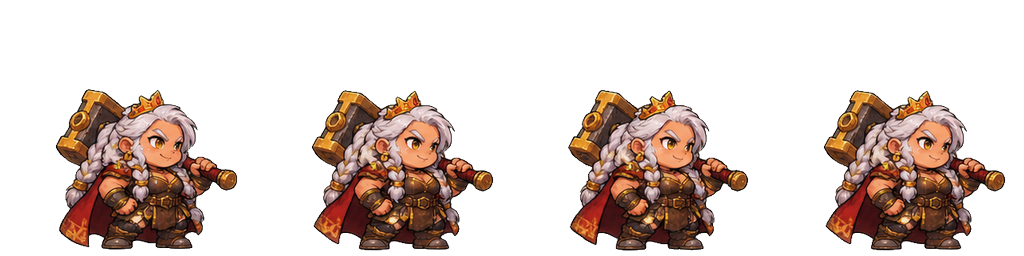
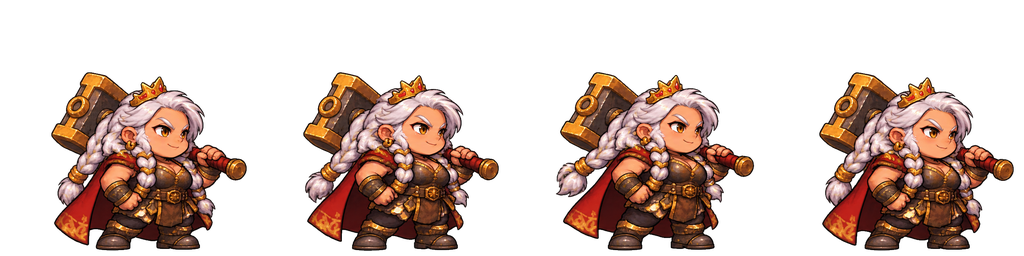
브리다 대기 동작 4프레임 새 그림으로 교체
Claude-Session: https://claude.ai/code/session_011AypWsTwCXy5ahmKUPDYwt

diff --git a/sw.js b/sw.js
@@ -1,6 +1,6 @@
 /* 왕이 되는 그날까지 — 오프라인 실행용 서비스 워커 (tools/build_sw.py가 만듦, 직접 고치지 말 것) */
-const VERSION='c6160e2bca';
-const MAP={"assets/bg/ash_far.png":"abfdc7ad7e","assets/bg/ash_ground.png":"fbd17f65c8","assets/bg/ash_mid.png":"bf807812ec","assets/bg/ash_sky.png":"300201d8a2","assets/bg/canyon_far.png":"a9cc422fed","assets/bg/canyon_ground.png":"d5f682c619","assets/bg/canyon_mid.png":"e5e4324591","assets/bg/canyon_sky.png":"9c202a64b5","assets/bg/dusk_far.png":"f566503025","assets/bg/dusk_ground.png":"d4760254fd","assets/bg/dusk_mid.png":"e0989d31a1","assets/bg/dusk_sky.png":"c82f7b61d3","assets/bg/erdan_far.png":"d094fc7ce5","assets/bg/erdan_ground.png":"d3529606e8","assets/bg/erdan_mid.png":"c8ad3804c1","assets/bg/erdan_sky.png":"1e05f8731e","assets/bg/frost_far.png":"19dad2ce88","assets/bg/frost_ground.png":"3b9d5fb014","assets/bg/frost_mid.png":"69a80fb601","assets/bg/frost_sky.png":"955f847347","assets/characters/brida_attack.png":"8a08e6bed8","assets/characters/brida_hit.png":"917e69900f","assets/characters/brida_idle.png":"837764e801","assets/characters/brida_walk.png":"35456db495","assets/characters/bron_attack.png":"3a0e0caf42","assets/characters/bron_hit.png":"84a7154e77","assets/characters/bron_idle.png":"61229dcc5b","assets/characters/bron_walk.png":"7dad3ba0f2","assets/characters/daisy_attack.png":"4b7c1426b9","assets/characters/daisy_hit.png":"8f1a0878af","assets/characters/daisy_idle.png":"61377c6830","assets/characters/daisy_walk.png":"d5f2435e50","assets/characters/haral_attack.png":"978f3afc3f","assets/characters/haral_hit.png":"213362f649","assets/characters/haral_idle.png":"8bf0bf6d20","assets/characters/haral_walk.png":"39e8f29d2f","assets/characters/kael_attack.png":"dbd47d1705","assets/characters/kael_hit.png":"b0fbed0ea5","assets/characters/kael_idle.png":"29cdfa8cdc","assets/characters/kael_walk.png":"884487f656","assets/characters/luka_attack.png":"10b694870b","assets/characters/luka_hit.png":"00d56f7f82","assets/characters/luka_idle.png":"0c7c261f4e","assets/characters/luka_walk.png":"ffde5d0b12","assets/characters/margo_attack.png":"5801b486be","assets/characters/margo_hit.png":"1340b2a211","assets/characters/margo_idle.png":"d44c7fa00a","assets/characters/margo_walk.png":"86be37ce75","assets/characters/nella_attack.png":"c56d9ca13c","assets/characters/nella_hit.png":"4b975ad670","assets/characters/nella_idle.png":"c666efcc20","assets/characters/nella_walk.png":"e4712b243c","assets/characters/riel_attack.png":"08dc86ec82","assets/characters/riel_hit.png":"22eb8eaca6","assets/characters/riel_idle.png":"3cf3652c06","assets/characters/riel_walk.png":"d429ca1f71","assets/crops/crop_carrot_1.png":"f521f1b21a","assets/crops/crop_carrot_2.png":"96412cae61","assets/crops/crop_carrot_3.png":"0caab08be8","assets/crops/crop_carrot_4.png":"631ee0ae4c","assets/crops/crop_pumpkin_1.png":"17da246fd2","assets/crops/crop_pumpkin_2.png":"4bd771eea2","assets/crops/crop_pumpkin_3.png":"b0e0de0917","assets/crops/crop_pumpkin_4.png":"4199c151ff","assets/crops/crop_wheat_1.png":"b2c4cba4cd","assets/crops/crop_wheat_2.png":"9f43ac98c5","assets/crops/crop_wheat_3.png":"1980c09851","assets/crops/crop_wheat_4.png":"96d9a3ad42","assets/crops/plot_empty.png":"bf40b6ed45","assets/fonts/hahmlet-500.woff2":"2e21f9e04c","assets/fonts/hahmlet-700.woff2":"cff1c42d55","assets/fonts/plexkr-400.woff2":"2185fb2e58","assets/fonts/plexkr-600.woff2":"760cba76f5","assets/fx/fx_bees.png":"a77e742ff9","assets/fx/fx_coin.png":"83d65bf09a","assets/fx/fx_crit.png":"08659b9d49","assets/fx/fx_harpoon.png":"84a4e2831d","assets/fx/fx_heal.png":"9ceeb9de2e","assets/fx/fx_hit.png":"b9b3abbcaf","assets/fx/fx_skill_brida.png":"55e34584e8","assets/fx/fx_skill_bron.png":"ecbc795a27","assets/fx/fx_skill_daisy.png":"4f3bb837b2","assets/fx/fx_skill_haral.png":"5e1499b5c7","assets/fx/fx_skill_kael.png":"81aabe4d33","assets/fx/fx_skill_luka.png":"85cac3f606","assets/fx/fx_skill_margo.png":"ac0d3edc16","assets/fx/fx_skill_nella.png":"e508630a6f","assets/fx/fx_skill_riel.png":"47270c84f8","assets/fx/fx_soup.png":"4b941315f8","assets/gem/gem_pack_1.png":"fbaa0f6542","assets/gem/gem_pack_2.png":"89bccb5745","assets/gem/gem_pack_3.png":"5b0c3058fd","assets/gem/gem_pack_4.png":"4b01620dbd","assets/gem/gem_pack_5.png":"3d29e897fe","assets/gem/gem_pack_6.png":"5164494272","assets/gem/ui_gem.png":"d72701ba7d","assets/icon/apple-touch-icon.png":"e50c9e6bf1","assets/icon/favicon-16.png":"2db4311b5d","assets/icon/favicon-32.png":"440db49613","assets/icon/icon-192.png":"441e2997bd","assets/icon/icon-512.png":"eda2be997b","assets/illust/illust_prologue.jpg":"9beba365b5","assets/illust/illust_retire.jpg":"74ff311a7f","assets/illust/illust_title.jpg":"006adb3633","assets/map/ash_boss.png":"a8be9e52dc","assets/map/ash_enemy.png":"d2262367aa","assets/map/canyon_boss.png":"6b7c17a49c","assets/map/canyon_enemy.png":"e2d7d4ebcd","assets/map/capital_locked.png":"c828d1f67a","assets/map/capital_open.png":"cee360a677","assets/map/dusk_boss.png":"dbf6d0b566","assets/map/dusk_enemy.png":"543dbb2608","assets/map/erdan_boss.png":"63719713d5","assets/map/erdan_enemy.png":"b3c3a8a4e9","assets/map/frost_boss.png":"6ec913cade","assets/map/frost_enemy.png":"87e0ecc588","assets/monsters/bat_shadow_attack.png":"733f900992","assets/monsters/bat_shadow_hit.png":"6c6777143a","assets/monsters/bat_shadow_walk.png":"4bdf69f59e","assets/monsters/boss_aldor_attack.png":"98d147de33","assets/monsters/boss_aldor_hit.png":"8ef2631028","assets/monsters/boss_aldor_walk.png":"dc30c29780","assets/monsters/boss_gromak_attack.png":"79580dc79a","assets/monsters/boss_gromak_hit.png":"8afa36ddae","assets/monsters/boss_gromak_walk.png":"508e49c3f2","assets/monsters/boss_ignis_attack.png":"b3792ddac0","assets/monsters/boss_ignis_hit.png":"39874ec8ec","assets/monsters/boss_ignis_walk.png":"745f03cf3c","assets/monsters/boss_morbas_attack.png":"b90b8b6dbd","assets/monsters/boss_morbas_hit.png":"b2e28fd059","assets/monsters/boss_morbas_walk.png":"c14aa48d24","assets/monsters/boss_seril_attack.png":"87c378c111","assets/monsters/boss_seril_hit.png":"8ee606e7e9","assets/monsters/boss_seril_walk.png":"630659de62","assets/monsters/goblin_gold_attack.png":"64a6f6f451","assets/monsters/goblin_gold_hit.png":"8b27eac950","assets/monsters/goblin_gold_walk.png":"c8a6e5c138","assets/monsters/goblin_pick_attack.png":"fa8e5c883f","assets/monsters/goblin_pick_hit.png":"066af0e709","assets/monsters/goblin_pick_walk.png":"e1f6d5d36a","assets/monsters/golem_steel_attack.png":"07e873d945","assets/monsters/golem_steel_hit.png":"67115529dc","assets/monsters/golem_steel_walk.png":"af9989172a","assets/monsters/imp_flame_attack.png":"9855e4f5e3","assets/monsters/imp_flame_hit.png":"ac4e28b83a","assets/monsters/imp_flame_walk.png":"6a0a835904","assets/monsters/scarecrow_cursed_attack.png":"19c1676923","assets/monsters/scarecrow_cursed_hit.png":"07f43ba22a","assets/monsters/scarecrow_cursed_walk.png":"0b7170d79c","assets/monsters/skeleton_frost_attack.png":"07648d88b9","assets/monsters/skeleton_frost_hit.png":"fcc108c10e","assets/monsters/skeleton_frost_walk.png":"74294ba7e2","assets/monsters/slime_ash_attack.png":"031d213acf","assets/monsters/slime_ash_hit.png":"ce2fa4d31b","assets/monsters/slime_ash_walk.png":"03ae7c49a4","assets/monsters/slime_plague_attack.png":"d4f6075abb","assets/monsters/slime_plague_hit.png":"bb74341a7e","assets/monsters/slime_plague_walk.png":"151b47bf12","assets/monsters/wolf_shadow_attack.png":"a6a83b34b8","assets/monsters/wolf_shadow_hit.png":"82a1af6e1d","assets/monsters/wolf_shadow_walk.png":"1251356e09","assets/monsters/wraith_frost_attack.png":"f5f41001fb","assets/monsters/wraith_frost_hit.png":"6348e92571","assets/monsters/wraith_frost_walk.png":"131c82c5ac","assets/portraits/portrait_aldor_idle.png":"07633d6214","assets/portraits/portrait_brida_idle.png":"cdf6882dec","assets/portraits/portrait_brida_laugh.png":"cde04938db","assets/portraits/portrait_bron_idle.png":"eb202419e5","assets/portraits/portrait_bron_laugh.png":"067dda71a1","assets/portraits/portrait_daisy_idle.png":"8b95fff77a","assets/portraits/portrait_daisy_laugh.png":"38c0f6471b","assets/portraits/portrait_gromak_idle.png":"b4510b3437","assets/portraits/portrait_haral_idle.png":"8057bc4036","assets/portraits/portrait_haral_laugh.png":"c213936ee8","assets/portraits/portrait_ignis_idle.png":"6bb8479476","assets/portraits/portrait_kael_flustered.png":"dcbbe42cd0","assets/portraits/portrait_kael_idle.png":"2faad1bb9c","assets/portraits/portrait_kael_smile.png":"880d0b870c","assets/portraits/portrait_kael_surprised.png":"f49dfef839","assets/portraits/portrait_luka_idle.png":"ef693f34ba","assets/portraits/portrait_luka_laugh.png":"aafc2ba36c","assets/portraits/portrait_luminar_angry.png":"406fff108e","assets/portraits/portrait_luminar_moved.png":"ac97db5b14","assets/portraits/portrait_luminar_proud.png":"5a078f2d6f","assets/portraits/portrait_margo_idle.png":"a390d73c66","assets/portraits/portrait_margo_laugh.png":"6a6d2380f8","assets/portraits/portrait_marta_idle.png":"d86a9956f4","assets/portraits/portrait_morbas_idle.png":"1ed03a2888","assets/portraits/portrait_nella_idle.png":"b11813c857","assets/portraits/portrait_nella_laugh.png":"05ff86fd98","assets/portraits/portrait_pete_idle.png":"d14833cc91","assets/portraits/portrait_riel_idle.png":"31ca54792c","assets/portraits/portrait_riel_laugh.png":"40f5ce426b","assets/portraits/portrait_seril_idle.png":"52fb8d0eb1","assets/portraits/portrait_toby_idle.png":"ea6aef3ceb","assets/profile/badge_basket.png":"19ad639d98","assets/profile/badge_chest.png":"1997070288","assets/profile/badge_goblin.png":"a97a7db198","assets/profile/badge_horns.png":"eb77cb7f93","assets/profile/badge_king.png":"87c7d121ac","assets/profile/badge_pumpkin.png":"e191405060","assets/profile/badge_rebuild.png":"100b0d8092","assets/profile/badge_retire.png":"68a96ee52e","assets/profile/badge_stew.png":"c5615ba22c","assets/profile/frame_amethyst.png":"33596ec882","assets/profile/frame_goblin.png":"206ee5a860","assets/profile/frame_gold.png":"ac627fc7a3","assets/profile/frame_harvest.png":"1b0b11ae0b","assets/profile/frame_holy.png":"1af08de6e7","assets/profile/frame_royal.png":"e21f45a33a","assets/profile/frame_silver.png":"1db41ebcfa","assets/profile/frame_straw.png":"0810bf19b1","assets/profile/frame_wood.png":"99f33b8a46","assets/relic/relic_armor_1.png":"16d76a13c5","assets/relic/relic_armor_2.png":"87fb210070","assets/relic/relic_armor_3.png":"dd11fe2783","assets/relic/relic_boots_1.png":"d9a8c049ac","assets/relic/relic_boots_2.png":"efd27637b0","assets/relic/relic_boots_3.png":"5a612f2e27","assets/relic/relic_gloves_1.png":"5e8bee64d0","assets/relic/relic_gloves_2.png":"6795c922c5","assets/relic/relic_gloves_3.png":"67e14c6405","assets/relic/relic_helm_1.png":"455c59b819","assets/relic/relic_helm_2.png":"d18874e0e3","assets/relic/relic_helm_3.png":"cf800e2dad","assets/relic/relic_ring_1.png":"10edfdff76","assets/relic/relic_ring_2.png":"78a2cc0f51","assets/relic/relic_ring_3.png":"b2278ff8ee","assets/relic/relic_weapon_1.png":"dcc7c7540a","assets/relic/relic_weapon_2.png":"5fdd6cc2b3","assets/relic/relic_weapon_3.png":"f0135343bd","assets/skills/skill_brida.png":"0aa718bf0d","assets/skills/skill_bron.png":"08c7b35e76","assets/skills/skill_daisy.png":"8ee38fd0b9","assets/skills/skill_haral.png":"d392acbc14","assets/skills/skill_kael.png":"85c628e6a9","assets/skills/skill_luka.png":"ed4206fe68","assets/skills/skill_margo.png":"1498522d74","assets/skills/skill_nella.png":"04dc833078","assets/skills/skill_riel.png":"7aca6249d7","assets/ui/banner_capture.png":"cdce0b7ac7","assets/ui/bld_apiary.png":"1c86733003","assets/ui/bld_diner.png":"386a2fd60f","assets/ui/bld_dock.png":"f0409530e4","assets/ui/bld_farm.png":"ba8a24d8a9","assets/ui/bld_inn.png":"6857ad2ff5","assets/ui/bld_mine.png":"db914dbca5","assets/ui/boss_aura_commander.png":"3f9d291d94","assets/ui/boss_aura_lord.png":"785308d542","assets/ui/boss_mark_commander.png":"77e1e1b4bb","assets/ui/boss_mark_lord.png":"123c1b4432","assets/ui/buff_atk.png":"9a886d1ff6","assets/ui/buff_gold.png":"1a7ca0cf7c","assets/ui/buff_spd.png":"dae9c3f56c","assets/ui/frame_dialog.png":"1d1d83a399","assets/ui/frame_epic.png":"69a0cfc775","assets/ui/frame_legendary.png":"9a8f6852ac","assets/ui/frame_mythic.png":"83201ca46e","assets/ui/frame_normal.png":"01b42af2db","assets/ui/frame_popup.png":"20dc37c6ff","assets/ui/frame_rare.png":"6e60a9625d","assets/ui/frame_uncommon.png":"c1f9ee4e31","assets/ui/item_carrot.png":"9d51a5ea72","assets/ui/item_fish.png":"2f62e8797b","assets/ui/item_honey.png":"fbdf3d5e01","assets/ui/item_ore.png":"6eb3cdcb49","assets/ui/item_pumpkin.png":"074c67fcb2","assets/ui/item_wheat.png":"69fac25d82","assets/ui/logo.png":"2d22e7ca80","assets/ui/node_boss.png":"c79760401f","assets/ui/node_captured.png":"0a83211c2b","assets/ui/node_current.png":"c4a3ba8982","assets/ui/node_enemy.png":"55c59af8ea","assets/ui/rank_count.png":"f0e9a8bd8c","assets/ui/rank_duke.png":"80cb0fc6fa","assets/ui/rank_farmer.png":"493f3b96e1","assets/ui/rank_guard.png":"8a70f1c39c","assets/ui/rank_king.png":"a34e27d982","assets/ui/rank_knight.png":"78adabb17a","assets/ui/rank_lord.png":"77bb49441a","assets/ui/relic_chest.png":"9311479aa1","assets/ui/seed_carrot.png":"f21317e672","assets/ui/seed_pumpkin.png":"de9e24a972","assets/ui/seed_wheat.png":"bc87c11aee","assets/ui/slot_armor.png":"83816d046b","assets/ui/slot_boots.png":"01c1c89cdb","assets/ui/slot_gloves.png":"483d5aba63","assets/ui/slot_hat.png":"45c39d6e0c","assets/ui/slot_ring.png":"3707240c55","assets/ui/slot_weapon.png":"d76a948b02","assets/ui/tab_equipment.png":"cebacb923b","assets/ui/tab_map.png":"5178bc1d54","assets/ui/tab_party.png":"80412a0e78","assets/ui/tab_training.png":"f090ee0719","assets/ui/tab_village.png":"87cabcf9cb","assets/ui/ui_boss_mark.png":"8fe434b274","assets/ui/ui_gold.png":"12070643fb","assets/village/apiary_built.png":"001bb8753d","assets/village/apiary_ruin.png":"42a1170bd6","assets/village/diner_built.png":"50f46b5946","assets/village/diner_ruin.png":"e09f4a687d","assets/village/dock_built.png":"10894845e0","assets/village/dock_ruin.png":"975d3eea4f","assets/village/farm_built.png":"2331d98d5b","assets/village/farm_ruin.png":"6f4bde33f4","assets/village/inn_built.png":"75f5599f0b","assets/village/inn_ruin.png":"31dfd01982","assets/village/mine_built.png":"85b66e411e","assets/village/mine_ruin.png":"b773da1822","assets/village/village_bg.jpg":"d7046fd11a","favicon.ico":"48e226949a","manifest.webmanifest":"cba9531993"};
+const VERSION='3609a2be07';
+const MAP={"assets/bg/ash_far.png":"abfdc7ad7e","assets/bg/ash_ground.png":"fbd17f65c8","assets/bg/ash_mid.png":"bf807812ec","assets/bg/ash_sky.png":"300201d8a2","assets/bg/canyon_far.png":"a9cc422fed","assets/bg/canyon_ground.png":"d5f682c619","assets/bg/canyon_mid.png":"e5e4324591","assets/bg/canyon_sky.png":"9c202a64b5","assets/bg/dusk_far.png":"f566503025","assets/bg/dusk_ground.png":"d4760254fd","assets/bg/dusk_mid.png":"e0989d31a1","assets/bg/dusk_sky.png":"c82f7b61d3","assets/bg/erdan_far.png":"d094fc7ce5","assets/bg/erdan_ground.png":"d3529606e8","assets/bg/erdan_mid.png":"c8ad3804c1","assets/bg/erdan_sky.png":"1e05f8731e","assets/bg/frost_far.png":"19dad2ce88","assets/bg/frost_ground.png":"3b9d5fb014","assets/bg/frost_mid.png":"69a80fb601","assets/bg/frost_sky.png":"955f847347","assets/characters/brida_attack.png":"8a08e6bed8","assets/characters/brida_hit.png":"917e69900f","assets/characters/brida_idle.png":"9d37c07a5e","assets/characters/brida_walk.png":"35456db495","assets/characters/bron_attack.png":"3a0e0caf42","assets/characters/bron_hit.png":"84a7154e77","assets/characters/bron_idle.png":"61229dcc5b","assets/characters/bron_walk.png":"7dad3ba0f2","assets/characters/daisy_attack.png":"4b7c1426b9","assets/characters/daisy_hit.png":"8f1a0878af","assets/characters/daisy_idle.png":"61377c6830","assets/characters/daisy_walk.png":"d5f2435e50","assets/characters/haral_attack.png":"978f3afc3f","assets/characters/haral_hit.png":"213362f649","assets/characters/haral_idle.png":"8bf0bf6d20","assets/characters/haral_walk.png":"39e8f29d2f","assets/characters/kael_attack.png":"dbd47d1705","assets/characters/kael_hit.png":"b0fbed0ea5","assets/characters/kael_idle.png":"29cdfa8cdc","assets/characters/kael_walk.png":"884487f656","assets/characters/luka_attack.png":"10b694870b","assets/characters/luka_hit.png":"00d56f7f82","assets/characters/luka_idle.png":"0c7c261f4e","assets/characters/luka_walk.png":"ffde5d0b12","assets/characters/margo_attack.png":"5801b486be","assets/characters/margo_hit.png":"1340b2a211","assets/characters/margo_idle.png":"d44c7fa00a","assets/characters/margo_walk.png":"86be37ce75","assets/characters/nella_attack.png":"c56d9ca13c","assets/characters/nella_hit.png":"4b975ad670","assets/characters/nella_idle.png":"c666efcc20","assets/characters/nella_walk.png":"e4712b243c","assets/characters/riel_attack.png":"08dc86ec82","assets/characters/riel_hit.png":"22eb8eaca6","assets/characters/riel_idle.png":"3cf3652c06","assets/characters/riel_walk.png":"d429ca1f71","assets/crops/crop_carrot_1.png":"f521f1b21a","assets/crops/crop_carrot_2.png":"96412cae61","assets/crops/crop_carrot_3.png":"0caab08be8","assets/crops/crop_carrot_4.png":"631ee0ae4c","assets/crops/crop_pumpkin_1.png":"17da246fd2","assets/crops/crop_pumpkin_2.png":"4bd771eea2","assets/crops/crop_pumpkin_3.png":"b0e0de0917","assets/crops/crop_pumpkin_4.png":"4199c151ff","assets/crops/crop_wheat_1.png":"b2c4cba4cd","assets/crops/crop_wheat_2.png":"9f43ac98c5","assets/crops/crop_wheat_3.png":"1980c09851","assets/crops/crop_wheat_4.png":"96d9a3ad42","assets/crops/plot_empty.png":"bf40b6ed45","assets/fonts/hahmlet-500.woff2":"2e21f9e04c","assets/fonts/hahmlet-700.woff2":"cff1c42d55","assets/fonts/plexkr-400.woff2":"2185fb2e58","assets/fonts/plexkr-600.woff2":"760cba76f5","assets/fx/fx_bees.png":"a77e742ff9","assets/fx/fx_coin.png":"83d65bf09a","assets/fx/fx_crit.png":"08659b9d49","assets/fx/fx_harpoon.png":"84a4e2831d","assets/fx/fx_heal.png":"9ceeb9de2e","assets/fx/fx_hit.png":"b9b3abbcaf","assets/fx/fx_skill_brida.png":"55e34584e8","assets/fx/fx_skill_bron.png":"ecbc795a27","assets/fx/fx_skill_daisy.png":"4f3bb837b2","assets/fx/fx_skill_haral.png":"5e1499b5c7","assets/fx/fx_skill_kael.png":"81aabe4d33","assets/fx/fx_skill_luka.png":"85cac3f606","assets/fx/fx_skill_margo.png":"ac0d3edc16","assets/fx/fx_skill_nella.png":"e508630a6f","assets/fx/fx_skill_riel.png":"47270c84f8","assets/fx/fx_soup.png":"4b941315f8","assets/gem/gem_pack_1.png":"fbaa0f6542","assets/gem/gem_pack_2.png":"89bccb5745","assets/gem/gem_pack_3.png":"5b0c3058fd","assets/gem/gem_pack_4.png":"4b01620dbd","assets/gem/gem_pack_5.png":"3d29e897fe","assets/gem/gem_pack_6.png":"5164494272","assets/gem/ui_gem.png":"d72701ba7d","assets/icon/apple-touch-icon.png":"e50c9e6bf1","assets/icon/favicon-16.png":"2db4311b5d","assets/icon/favicon-32.png":"440db49613","assets/icon/icon-192.png":"441e2997bd","assets/icon/icon-512.png":"eda2be997b","assets/illust/illust_prologue.jpg":"9beba365b5","assets/illust/illust_retire.jpg":"74ff311a7f","assets/illust/illust_title.jpg":"006adb3633","assets/map/ash_boss.png":"a8be9e52dc","assets/map/ash_enemy.png":"d2262367aa","assets/map/canyon_boss.png":"6b7c17a49c","assets/map/canyon_enemy.png":"e2d7d4ebcd","assets/map/capital_locked.png":"c828d1f67a","assets/map/capital_open.png":"cee360a677","assets/map/dusk_boss.png":"dbf6d0b566","assets/map/dusk_enemy.png":"543dbb2608","assets/map/erdan_boss.png":"63719713d5","assets/map/erdan_enemy.png":"b3c3a8a4e9","assets/map/frost_boss.png":"6ec913cade","assets/map/frost_enemy.png":"87e0ecc588","assets/monsters/bat_shadow_attack.png":"733f900992","assets/monsters/bat_shadow_hit.png":"6c6777143a","assets/monsters/bat_shadow_walk.png":"4bdf69f59e","assets/monsters/boss_aldor_attack.png":"98d147de33","assets/monsters/boss_aldor_hit.png":"8ef2631028","assets/monsters/boss_aldor_walk.png":"dc30c29780","assets/monsters/boss_gromak_attack.png":"79580dc79a","assets/monsters/boss_gromak_hit.png":"8afa36ddae","assets/monsters/boss_gromak_walk.png":"508e49c3f2","assets/monsters/boss_ignis_attack.png":"b3792ddac0","assets/monsters/boss_ignis_hit.png":"39874ec8ec","assets/monsters/boss_ignis_walk.png":"745f03cf3c","assets/monsters/boss_morbas_attack.png":"b90b8b6dbd","assets/monsters/boss_morbas_hit.png":"b2e28fd059","assets/monsters/boss_morbas_walk.png":"c14aa48d24","assets/monsters/boss_seril_attack.png":"87c378c111","assets/monsters/boss_seril_hit.png":"8ee606e7e9","assets/monsters/boss_seril_walk.png":"630659de62","assets/monsters/goblin_gold_attack.png":"64a6f6f451","assets/monsters/goblin_gold_hit.png":"8b27eac950","assets/monsters/goblin_gold_walk.png":"c8a6e5c138","assets/monsters/goblin_pick_attack.png":"fa8e5c883f","assets/monsters/goblin_pick_hit.png":"066af0e709","assets/monsters/goblin_pick_walk.png":"e1f6d5d36a","assets/monsters/golem_steel_attack.png":"07e873d945","assets/monsters/golem_steel_hit.png":"67115529dc","assets/monsters/golem_steel_walk.png":"af9989172a","assets/monsters/imp_flame_attack.png":"9855e4f5e3","assets/monsters/imp_flame_hit.png":"ac4e28b83a","assets/monsters/imp_flame_walk.png":"6a0a835904","assets/monsters/scarecrow_cursed_attack.png":"19c1676923","assets/monsters/scarecrow_cursed_hit.png":"07f43ba22a","assets/monsters/scarecrow_cursed_walk.png":"0b7170d79c","assets/monsters/skeleton_frost_attack.png":"07648d88b9","assets/monsters/skeleton_frost_hit.png":"fcc108c10e","assets/monsters/skeleton_frost_walk.png":"74294ba7e2","assets/monsters/slime_ash_attack.png":"031d213acf","assets/monsters/slime_ash_hit.png":"ce2fa4d31b","assets/monsters/slime_ash_walk.png":"03ae7c49a4","assets/monsters/slime_plague_attack.png":"d4f6075abb","assets/monsters/slime_plague_hit.png":"bb74341a7e","assets/monsters/slime_plague_walk.png":"151b47bf12","assets/monsters/wolf_shadow_attack.png":"a6a83b34b8","assets/monsters/wolf_shadow_hit.png":"82a1af6e1d","assets/monsters/wolf_shadow_walk.png":"1251356e09","assets/monsters/wraith_frost_attack.png":"f5f41001fb","assets/monsters/wraith_frost_hit.png":"6348e92571","assets/monsters/wraith_frost_walk.png":"131c82c5ac","assets/portraits/portrait_aldor_idle.png":"07633d6214","assets/portraits/portrait_brida_idle.png":"cdf6882dec","assets/portraits/portrait_brida_laugh.png":"cde04938db","assets/portraits/portrait_bron_idle.png":"eb202419e5","assets/portraits/portrait_bron_laugh.png":"067dda71a1","assets/portraits/portrait_daisy_idle.png":"8b95fff77a","assets/portraits/portrait_daisy_laugh.png":"38c0f6471b","assets/portraits/portrait_gromak_idle.png":"b4510b3437","assets/portraits/portrait_haral_idle.png":"8057bc4036","assets/portraits/portrait_haral_laugh.png":"c213936ee8","assets/portraits/portrait_ignis_idle.png":"6bb8479476","assets/portraits/portrait_kael_flustered.png":"dcbbe42cd0","assets/portraits/portrait_kael_idle.png":"2faad1bb9c","assets/portraits/portrait_kael_smile.png":"880d0b870c","assets/portraits/portrait_kael_surprised.png":"f49dfef839","assets/portraits/portrait_luka_idle.png":"ef693f34ba","assets/portraits/portrait_luka_laugh.png":"aafc2ba36c","assets/portraits/portrait_luminar_angry.png":"406fff108e","assets/portraits/portrait_luminar_moved.png":"ac97db5b14","assets/portraits/portrait_luminar_proud.png":"5a078f2d6f","assets/portraits/portrait_margo_idle.png":"a390d73c66","assets/portraits/portrait_margo_laugh.png":"6a6d2380f8","assets/portraits/portrait_marta_idle.png":"d86a9956f4","assets/portraits/portrait_morbas_idle.png":"1ed03a2888","assets/portraits/portrait_nella_idle.png":"b11813c857","assets/portraits/portrait_nella_laugh.png":"05ff86fd98","assets/portraits/portrait_pete_idle.png":"d14833cc91","assets/portraits/portrait_riel_idle.png":"31ca54792c","assets/portraits/portrait_riel_laugh.png":"40f5ce426b","assets/portraits/portrait_seril_idle.png":"52fb8d0eb1","assets/portraits/portrait_toby_idle.png":"ea6aef3ceb","assets/profile/badge_basket.png":"19ad639d98","assets/profile/badge_chest.png":"1997070288","assets/profile/badge_goblin.png":"a97a7db198","assets/profile/badge_horns.png":"eb77cb7f93","assets/profile/badge_king.png":"87c7d121ac","assets/profile/badge_pumpkin.png":"e191405060","assets/profile/badge_rebuild.png":"100b0d8092","assets/profile/badge_retire.png":"68a96ee52e","assets/profile/badge_stew.png":"c5615ba22c","assets/profile/frame_amethyst.png":"33596ec882","assets/profile/frame_goblin.png":"206ee5a860","assets/profile/frame_gold.png":"ac627fc7a3","assets/profile/frame_harvest.png":"1b0b11ae0b","assets/profile/frame_holy.png":"1af08de6e7","assets/profile/frame_royal.png":"e21f45a33a","assets/profile/frame_silver.png":"1db41ebcfa","assets/profile/frame_straw.png":"0810bf19b1","assets/profile/frame_wood.png":"99f33b8a46","assets/relic/relic_armor_1.png":"16d76a13c5","assets/relic/relic_armor_2.png":"87fb210070","assets/relic/relic_armor_3.png":"dd11fe2783","assets/relic/relic_boots_1.png":"d9a8c049ac","assets/relic/relic_boots_2.png":"efd27637b0","assets/relic/relic_boots_3.png":"5a612f2e27","assets/relic/relic_gloves_1.png":"5e8bee64d0","assets/relic/relic_gloves_2.png":"6795c922c5","assets/relic/relic_gloves_3.png":"67e14c6405","assets/relic/relic_helm_1.png":"455c59b819","assets/relic/relic_helm_2.png":"d18874e0e3","assets/relic/relic_helm_3.png":"cf800e2dad","assets/relic/relic_ring_1.png":"10edfdff76","assets/relic/relic_ring_2.png":"78a2cc0f51","assets/relic/relic_ring_3.png":"b2278ff8ee","assets/relic/relic_weapon_1.png":"dcc7c7540a","assets/relic/relic_weapon_2.png":"5fdd6cc2b3","assets/relic/relic_weapon_3.png":"f0135343bd","assets/skills/skill_brida.png":"0aa718bf0d","assets/skills/skill_bron.png":"08c7b35e76","assets/skills/skill_daisy.png":"8ee38fd0b9","assets/skills/skill_haral.png":"d392acbc14","assets/skills/skill_kael.png":"85c628e6a9","assets/skills/skill_luka.png":"ed4206fe68","assets/skills/skill_margo.png":"1498522d74","assets/skills/skill_nella.png":"04dc833078","assets/skills/skill_riel.png":"7aca6249d7","assets/ui/banner_capture.png":"cdce0b7ac7","assets/ui/bld_apiary.png":"1c86733003","assets/ui/bld_diner.png":"386a2fd60f","assets/ui/bld_dock.png":"f0409530e4","assets/ui/bld_farm.png":"ba8a24d8a9","assets/ui/bld_inn.png":"6857ad2ff5","assets/ui/bld_mine.png":"db914dbca5","assets/ui/boss_aura_commander.png":"3f9d291d94","assets/ui/boss_aura_lord.png":"785308d542","assets/ui/boss_mark_commander.png":"77e1e1b4bb","assets/ui/boss_mark_lord.png":"123c1b4432","assets/ui/buff_atk.png":"9a886d1ff6","assets/ui/buff_gold.png":"1a7ca0cf7c","assets/ui/buff_spd.png":"dae9c3f56c","assets/ui/frame_dialog.png":"1d1d83a399","assets/ui/frame_epic.png":"69a0cfc775","assets/ui/frame_legendary.png":"9a8f6852ac","assets/ui/frame_mythic.png":"83201ca46e","assets/ui/frame_normal.png":"01b42af2db","assets/ui/frame_popup.png":"20dc37c6ff","assets/ui/frame_rare.png":"6e60a9625d","assets/ui/frame_uncommon.png":"c1f9ee4e31","assets/ui/item_carrot.png":"9d51a5ea72","assets/ui/item_fish.png":"2f62e8797b","assets/ui/item_honey.png":"fbdf3d5e01","assets/ui/item_ore.png":"6eb3cdcb49","assets/ui/item_pumpkin.png":"074c67fcb2","assets/ui/item_wheat.png":"69fac25d82","assets/ui/logo.png":"2d22e7ca80","assets/ui/node_boss.png":"c79760401f","assets/ui/node_captured.png":"0a83211c2b","assets/ui/node_current.png":"c4a3ba8982","assets/ui/node_enemy.png":"55c59af8ea","assets/ui/rank_count.png":"f0e9a8bd8c","assets/ui/rank_duke.png":"80cb0fc6fa","assets/ui/rank_farmer.png":"493f3b96e1","assets/ui/rank_guard.png":"8a70f1c39c","assets/ui/rank_king.png":"a34e27d982","assets/ui/rank_knight.png":"78adabb17a","assets/ui/rank_lord.png":"77bb49441a","assets/ui/relic_chest.png":"9311479aa1","assets/ui/seed_carrot.png":"f21317e672","assets/ui/seed_pumpkin.png":"de9e24a972","assets/ui/seed_wheat.png":"bc87c11aee","assets/ui/slot_armor.png":"83816d046b","assets/ui/slot_boots.png":"01c1c89cdb","assets/ui/slot_gloves.png":"483d5aba63","assets/ui/slot_hat.png":"45c39d6e0c","assets/ui/slot_ring.png":"3707240c55","assets/ui/slot_weapon.png":"d76a948b02","assets/ui/tab_equipment.png":"cebacb923b","assets/ui/tab_map.png":"5178bc1d54","assets/ui/tab_party.png":"80412a0e78","assets/ui/tab_training.png":"f090ee0719","assets/ui/tab_village.png":"87cabcf9cb","assets/ui/ui_boss_mark.png":"8fe434b274","assets/ui/ui_gold.png":"12070643fb","assets/village/apiary_built.png":"001bb8753d","assets/village/apiary_ruin.png":"42a1170bd6","assets/village/diner_built.png":"50f46b5946","assets/village/diner_ruin.png":"e09f4a687d","assets/village/dock_built.png":"10894845e0","assets/village/dock_ruin.png":"975d3eea4f","assets/village/farm_built.png":"2331d98d5b","assets/village/farm_ruin.png":"6f4bde33f4","assets/village/inn_built.png":"75f5599f0b","assets/village/inn_ruin.png":"31dfd01982","assets/village/mine_built.png":"85b66e411e","assets/village/mine_ruin.png":"b773da1822","assets/village/village_bg.jpg":"d7046fd11a","favicon.ico":"48e226949a","manifest.webmanifest":"cba9531993"};
 const PAGE='kd-page',FILES='kd-files';
 const base=self.registration.scope;
 const key=(p,h)=>new URL(p,base).href+'?v='+h;
